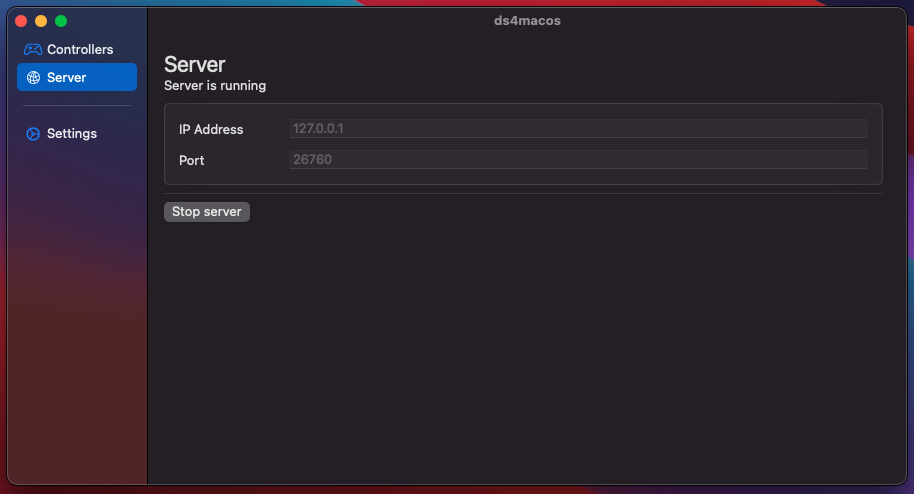
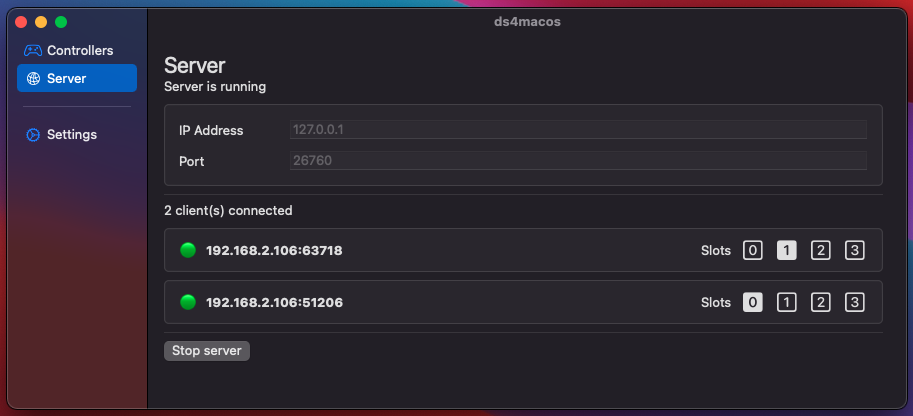
multi controller support

diff --git a/ds4macos/DSUServer.swift b/ds4macos/DSUServer.swift
@@ -18,7 +18,8 @@ class DSUServer: ObservableObject {
     var backgroundQueueUdpListener = DispatchQueue(label: "udp-lis.bg.queue", attributes: [])
     var backgroundQueueUdpConnection = DispatchQueue(label: "udp-con.bg.queue", attributes: [])
     
-    var clients: [Int: NWConnection] = [:]
+    @Published var clientsViewModel: ClientsViewModel = ClientsViewModel()
+    var clients: [String: Client] = [:]
     
     var counter: UInt32 = 0
     
@@ -50,6 +51,9 @@ class DSUServer: ObservableObject {
     func stopServer() {
         self.server?.cancel()
         self.server = nil
+        for (_, client) in self.clients {
+            client.close()
+        }
         self.isRunning = false
     }
     
@@ -135,7 +139,13 @@ class DSUServer: ObservableObject {
         
         for i in 0..<requestsCount {
             let dataMessage = self.getPortsPacket(index: i)
-            self.sendDataToClient(client: connection, data: Data(dataMessage))
+            connection.send(content: Data(dataMessage), completion: NWConnection.SendCompletion.contentProcessed({ (error: NWError?) in
+                if error != nil {
+                    // Client disconnect?
+                    connection.cancel()
+                    print("Got an error sending ports data: \(error!)")
+                }
+            }))
         }
     }
     
@@ -146,11 +156,25 @@ class DSUServer: ObservableObject {
         let flags = data[24]
         let regId = data[25]
         
-        if !self.clients.keys.contains(reqSlot) {
-            self.clients[reqSlot] = connection
-        }
-        
         if flags == 0 && regId == 0 {
+            switch connection.endpoint {
+            case .hostPort(let host, let port):
+                let clientAddress = "\(host):\(port)"
+                if self.clients[clientAddress] == nil {
+                    print("New client connection: \(clientAddress)")
+                    self.clients[clientAddress] = Client(server: self, connection: connection, address: clientAddress)
+                    self.clients[clientAddress]!.setSlot(slot: reqSlot)
+                    self.updateClientsViewModel()
+                } else {
+                    print("Refresh existing connection: \(clientAddress)")
+                    self.clients[clientAddress]!.setSlot(slot: reqSlot)
+                    self.clients[clientAddress]!.setTimeStampOnDataRequest()
+                }
+                break
+            default:
+                return
+            }
+        
             if self.controllerService != nil {
                 if slotBased == 0x01 {
                     if self.controllerService!.connectedControllers[reqSlot] != nil {
@@ -173,33 +197,17 @@ class DSUServer: ObservableObject {
     }
     
     func report(controller: DSUController) {
-        if self.clients.keys.contains(Int(controller.slot)) {
-            self.sendDataToClient(client: self.clients[Int(controller.slot)]!, data: Data(controller.getDataPacket(counter: self.counter)))
-        } else {
-            self.sendDataToClients(data: Data(controller.getDataPacket(counter: self.counter)))
+        for (_, client) in self.clients {
+            if client.slots[Int(controller.slot)] {
+                client.send(dataMessage: Data(controller.getDataPacket(counter: self.counter)))
+            }
         }
         self.counter += 1
     }
     
-    func sendDataToClients(data: Data) {
-        for client in self.clients {
-            self.sendDataToClient(client: client.value, data: data)
-        }
-    }
-    
-    func sendDataToClient(client: NWConnection, data: Data) {
-        if self.isRunning {
-            client.send(content: data, completion: NWConnection.SendCompletion.contentProcessed({ (error: NWError?) in
-                if error != nil {
-                    // Client disconnect?
-                    let clientKey = self.clients.firstIndex { (key: Int, value: NWConnection) -> Bool in
-                        return client.endpoint.hashValue == value.endpoint.hashValue
-                    }
-                    self.clients.remove(at: clientKey!)
-                    client.cancel()
-                    print("Got an error sending controller data: \(error!), \(self.clients.count)")
-                }
-            }))
+    func updateClientsViewModel() {
+        DispatchQueue.main.async {
+            self.clientsViewModel.clients = self.clients
         }
     }
     

diff --git a/ds4macos/Client.swift b/ds4macos/Client.swift
@@ -1,0 +1,59 @@
+//
+//  Client.swift
+//  ds4macos
+//
+
+import Foundation
+import Network
+
+class Client {
+
+    var slots: [Bool] = [false, false, false, false]
+
+    var server: DSUServer
+    var address: String
+    var connection: NWConnection
+    var timeStampLastDataRequest: UInt64
+    
+    let timeOut: UInt64 = 10 * 1000000
+
+    init(server: DSUServer, connection: NWConnection, address: String) {
+        self.server = server
+        self.connection = connection
+        self.timeStampLastDataRequest = UInt64(Date.init().timeIntervalSince1970 * 1000000)
+        self.address = address
+    }
+    
+    func setTimeStampOnDataRequest() {
+        self.timeStampLastDataRequest = UInt64(Date.init().timeIntervalSince1970 * 1000000)
+    }
+
+    func setSlot(slot: Int) {
+        if slot >= 0 && slot < self.slots.count {
+            self.slots[slot] = true
+        }
+    }
+    
+    func unsetSlot(slot: Int) {
+        if slot >= 0 && slot < self.slots.count {
+            self.slots[slot] = false
+        }
+    }
+    
+    func send(dataMessage: Data) {
+        self.connection.send(content: dataMessage, completion: NWConnection.SendCompletion.contentProcessed({ (error: NWError?) in
+            if error != nil {
+                // Client disconnect?
+                print("Got an error sending controller data: \(error!)")
+                self.close()
+            }
+        }))
+    }
+    
+    func close() {
+        self.connection.cancel()
+        self.server.clients.removeValue(forKey: self.address)
+        self.server.updateClientsViewModel()
+    }
+
+}

diff --git a/ds4macos/Pages/ServerView.swift b/ds4macos/Pages/ServerView.swift
@@ -9,6 +9,7 @@ import Combine
 
 struct ServerView: View {
     @EnvironmentObject var server: DSUServer
+    @EnvironmentObject var clientsViewModel: ClientsViewModel
     @State var portNum: String = "26760"
     @State var ipAddress: String = "127.0.0.1"
     @State private var showAlert: Bool = false
@@ -46,6 +47,17 @@ struct ServerView: View {
                         }
                     }.padding(10)
                 }
+                
+                if self.clientsViewModel.clients.count > 0 {
+                    Divider()
+                    Text("\(self.clientsViewModel.clients.count) client(s) connected")
+                    VStack {
+                        ForEach(self.clientsViewModel.clients.keys.sorted(by: >), id: \.self) { (key: String) in
+                            ConnectedClient(client: self.clientsViewModel.clients[key]!)
+                        }
+                    }
+                }
+                
                 Divider()
                 
                 if self.server.isRunning {

diff --git a/ds4macos/Pages/Client/ConnectedClient.swift b/ds4macos/Pages/Client/ConnectedClient.swift
@@ -1,0 +1,31 @@
+//
+//  ConnectedClient.swift
+//  ds4macos
+//
+
+import Foundation
+import SwiftUI
+
+struct ConnectedClient: View {
+    var client: Client
+
+    var body: some View {
+        GroupBox {
+            HStack {
+                Text("🟢").font(.headline)
+                VStack(alignment: .leading) {
+                    Text(self.client.address).font(.headline)
+                }
+                Spacer()
+                Text("Slots")
+                
+                ForEach( Array(zip(self.client.slots.indices, self.client.slots)), id: \.0) { index, item in
+                    Image(systemName: "\(index).square\(item ? ".fill" : "")").font(.title)
+                }
+                
+            }.padding(EdgeInsets(top: 5.0, leading: 10.0, bottom: 5.0, trailing: 10.0))
+        }
+    }
+    
+}
+

diff --git a/ds4macos/ds4macosApp.swift b/ds4macos/ds4macosApp.swift
@@ -14,7 +14,10 @@ class ds4macosApp: App {
             ContentView(gameControllerInfo: self.controllerService!.gameControllerInfo, selection: "controller")
                 .onDisappear(perform: {
                     exit(0)
-                }).environmentObject(self.dsuServer!).environmentObject(self.controllerService!)
+                })
+                .environmentObject(self.dsuServer!)
+                .environmentObject(self.controllerService!)
+                .environmentObject(self.dsuServer!.clientsViewModel)
         }
     }
     

diff --git a/ds4macos/ClientsViewModel.swift b/ds4macos/ClientsViewModel.swift
@@ -1,0 +1,11 @@
+//
+//  ClientsViewModel.swift
+//  ds4macos
+//
+
+import Foundation
+
+class ClientsViewModel: ObservableObject {
+    @Published var clients: [String: Client] = [:]
+    
+}
